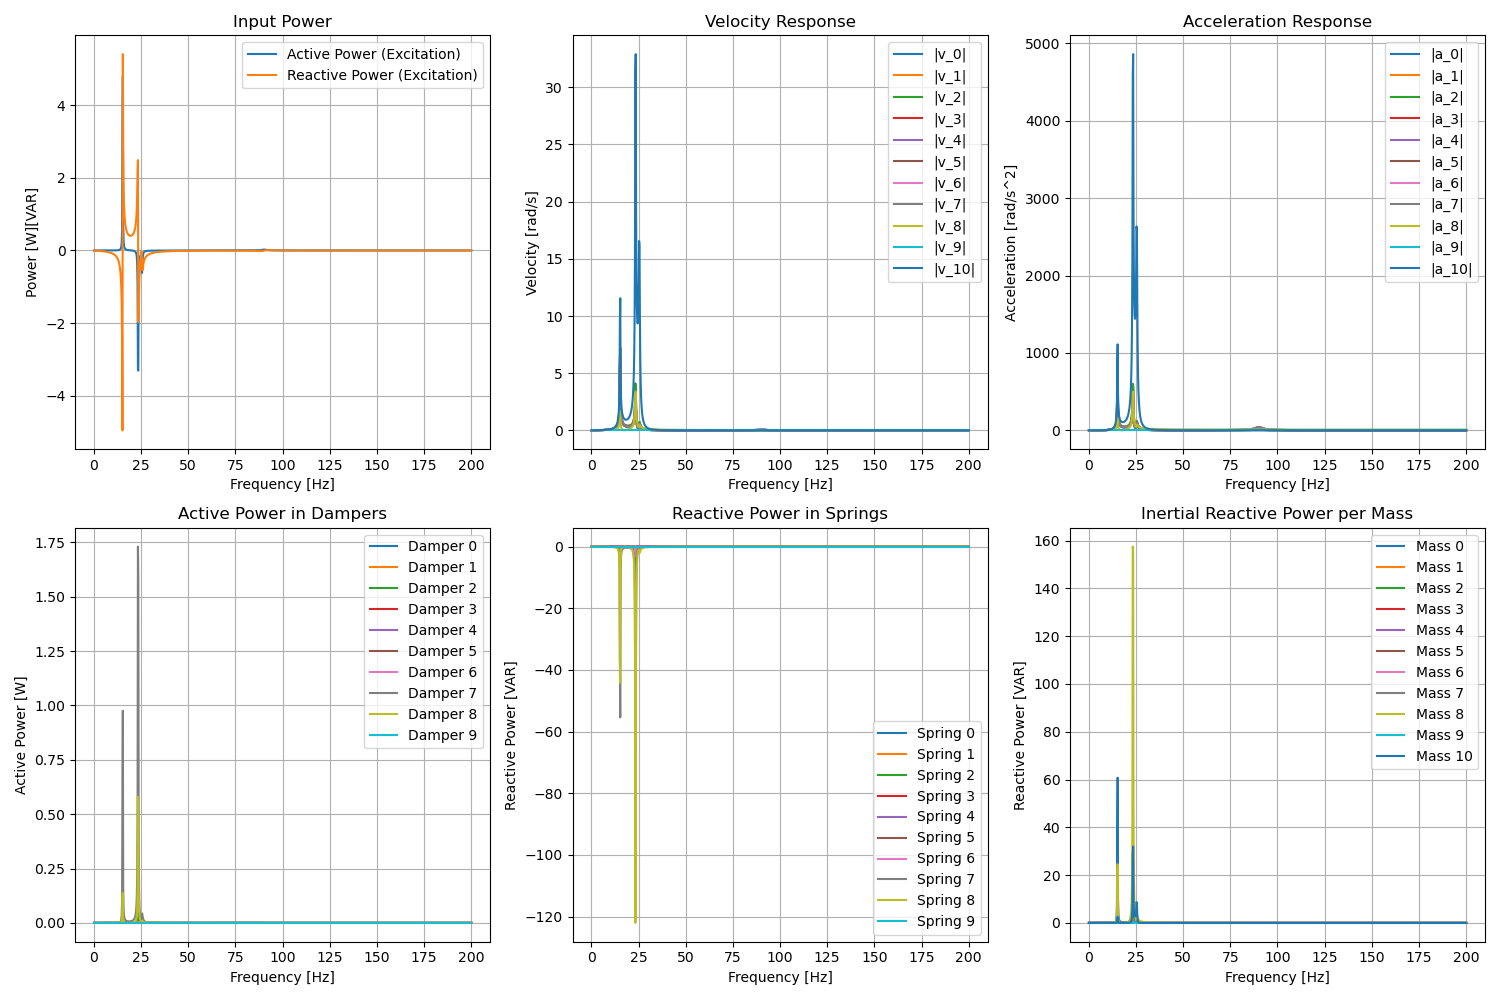
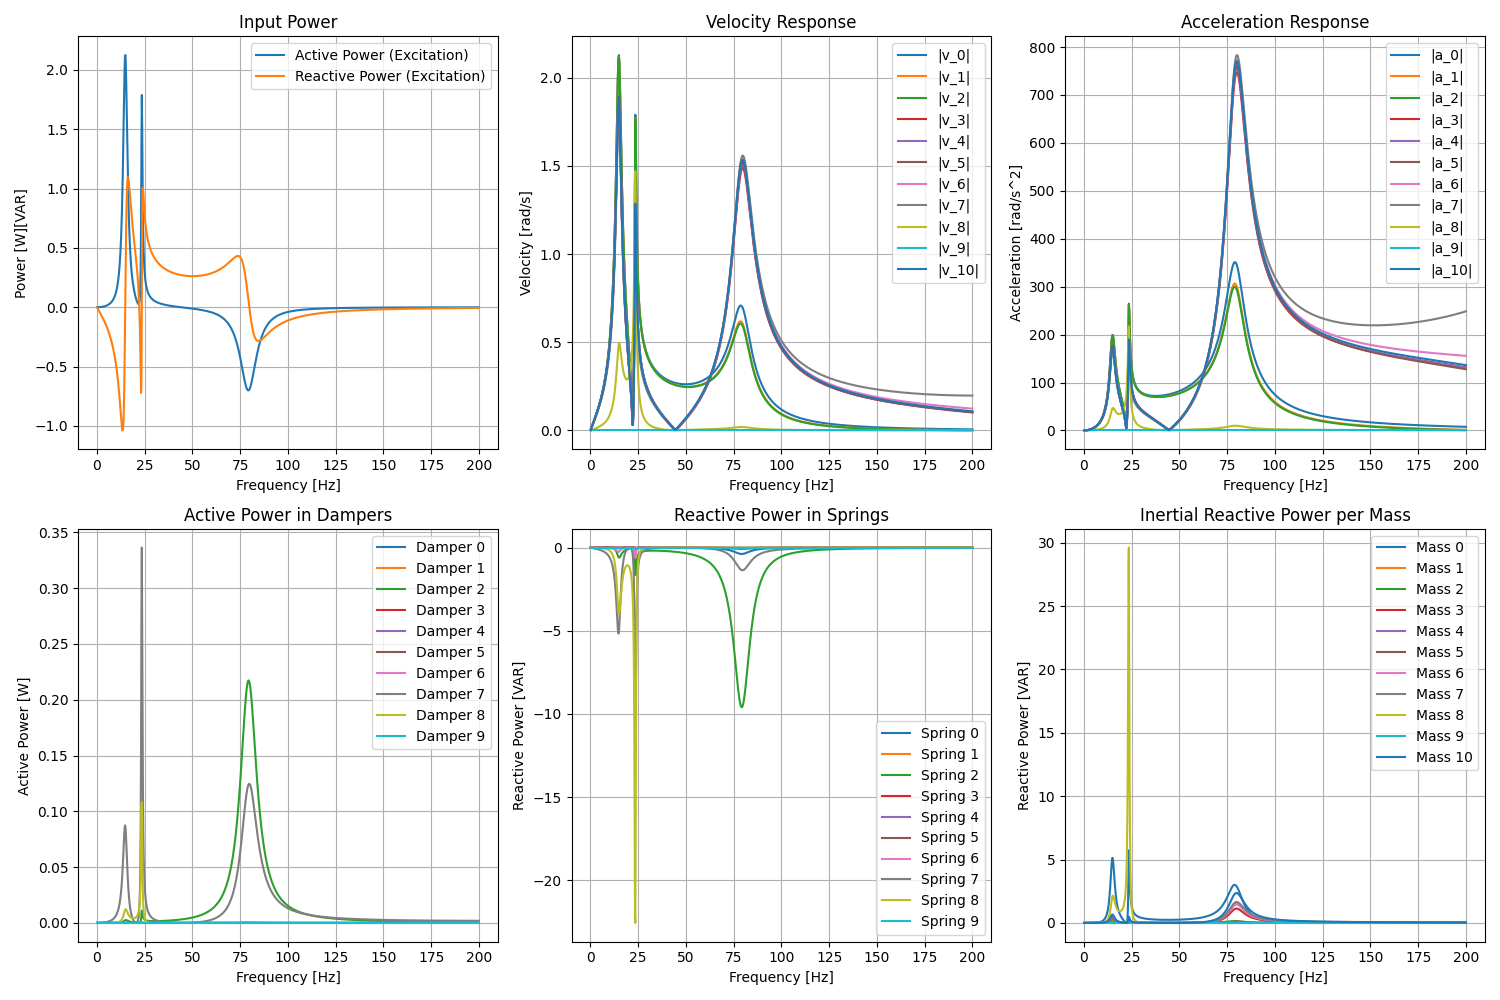
opentorsion

diff --git a/OpenTorsion/example_1.py b/OpenTorsion/example_1.py
@@ -1,0 +1,33 @@
+import opentorsion as ot
+
+k1 = 3.67e8  # Turbine shaft stiffness
+k2 = 5.496e9  # Rotor stiffness
+J1 = 1e7  # Turbine inertia
+J2 = 5770  # Rotor inner inertia
+J3 = 97030  # Rotor outer inertia
+
+# Elements are initiated and added to corresponding list
+shafts, disks = [], []
+disks.append(ot.Disk(0, J1))
+shafts.append(ot.Shaft(0, 1, None, None, k=k1, I=0))
+disks.append(ot.Disk(1, J2))
+shafts.append(ot.Shaft(1, 2, None, None, k=k2, I=0))
+disks.append(ot.Disk(2, J3))
+
+# An assembly is initiated with the lists of powertrain elements
+assembly = ot.Assembly(shafts, disk_elements=disks)
+
+# Calculation of the eigenfrequencies of the powertrain
+omegas_undamped, omegas_damped, damping_ratios = assembly.modal_analysis()
+
+# Print eigenfrequencies.
+# The list contains each eigenfrequency twice: e.g. eigenfrequencies = [1st, 1st, 2nd, 2nd, 3rd, 3rd, ...]
+print("Eigenfrequencies: ", omegas_undamped.round(3))
+
+# Initiate plotting tools calling Plots(assembly)
+plot_tools = ot.Plots(assembly)
+
+# Plot eigenmodes, input number of eigenmodes
+plot_tools.plot_assembly()
+plot_tools.plot_eigenmodes(modes=3)
+plot_tools.plot_campbell(frequency_range_rpm=[0, 300], num_modes=2)

diff --git a/VEHICLEDYNAMICS/slider.py b/VEHICLEDYNAMICS/slider.py
@@ -1,0 +1,29 @@
+
+import numpy as np
+from scipy.interpolate import UnivariateSpline
+import matplotlib.pyplot as plt
+from matplotlib.widgets import Slider
+
+x = np.linspace(0, 10, 20)
+y = np.sin(0.5 * x) * np.sin(x * np.random.randn(20))
+
+spline = UnivariateSpline(x, y, s = 5)
+x_spline = np.linspace(0, 10, 100)
+y_spline = spline(x_spline)
+
+fig = plt.figure()
+plt.subplots_adjust(bottom=.25)
+ax = fig.subplots()
+p = ax.plot(x, y)
+p, = ax.plot(x_spline, y_spline, 'y')
+ax_slide = plt.axes([.25, .1, .65, .03])
+s_factor = Slider(ax_slide, "Changing factor", 1, 5, valinit = 2.5, valstep = 0.05)
+
+def update(val):
+    current_v = s_factor.val
+    spline = UnivariateSpline(x, y, s=current_v)
+    p.set_ydata(spline(x_spline))
+    fig.canvas.draw()
+
+s_factor.on_changed(update)
+plt.show()
